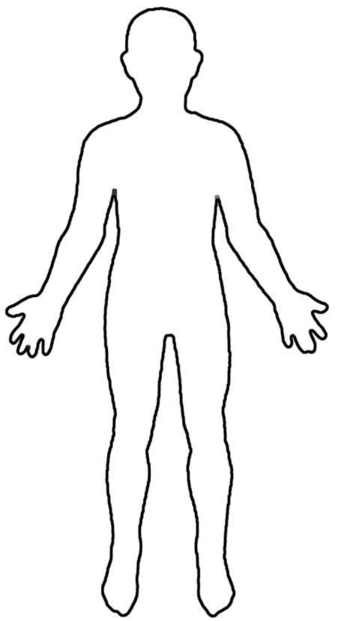
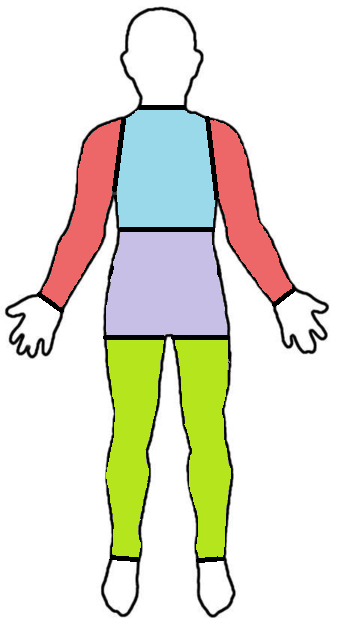
new image of person in colour, updated exercise prompts, terms and conditions footer added

Changed region(s): [[0.1163, 0.153, 0.8721, 0.9179]]

diff --git a/Health.html b/Health.html
@@ -33,9 +33,9 @@
     <div id="pageInfo">
       <h2>About This Page</h2>
       <p>
-        This interactive fitness page lets you click on different parts of the human body
-        to learn about exercises that strengthen those areas. Select arms, chest, core, or legs
-        to see tailored workout tips and benefits.
+        This interactive fitness page lets you select different parts of the human body
+        to learn about exercises that strengthen those areas. Click arms, chest, core, or legs
+        to see the specific exercises you can do for your selected muscle group!
       </p>
     </div>
   </div>
@@ -43,32 +43,47 @@
 
 <map name="image-map">
     <area alt="arms1" title="arms" href="#infoBox"
-          data-text="Arm exercises improve strength, mobility, and endurance."
-          coords="113,189,115,117,87,132,77,165,77,196,67,221,58,242,53,261,39,292,63,305,95,257,105,233" shape="poly">
+          data-text="Dips are an excellent exercise to isolate the muscles in the arms and are also scalable to your personal ability. You can start as easy as your legs infront of you on the floor to being fully off the ground with added weights."
+          coords="41,292,54,258,62,239,69,228,74,203,78,172,83,140,105,123,125,115,116,191,110,212,104,228,103,238,62,307" shape="poly">
 
-    <area alt="arms2" title="arms" href="#infoBox"
-          data-text="Training your arms enhances upper-body stability and power." 
-          coords="214,193,202,114,234,125,245,155,256,216,272,239,282,265,294,288,273,301,228,244" shape="poly">
+    <area alt="arms2" title="arms" href="#infoBox" 
+          data-text="Dips are an excellent exercise to isolate the muscles in the arms and are also scalable to your personal ability. You can start as easy as your legs infront of you on the floor to being fully off the ground with added weights." 
+          coords="208,119,218,202,225,218,227,236,234,252,274,303,292,288,275,244,260,223,256,202,245,148,238,130,226,121" shape="poly">
 
     <area alt="chest" title="chest" href="#infoBox"
-          data-text="Chest workouts help build strength and support proper posture."
-          coords="116,120,201,115,212,192,114,194" shape="poly">
+          data-text="Pushups are the most versatile chest exercise out there, with variations ranging for beginners to very advanced."
+          coords="120,229,213,227,218,198,208,115,185,108,138,106,125,117,115,197" shape="poly">
 
     <area alt="core" title="core" href="#infoBox"
-          data-text="Core strengthening improves balance, stability, and spine support."
-          coords="116,193,120,232,112,269,219,269,211,238,216,193" shape="poly">
+          data-text="The plank is a simple exercise to train your core. The best thing is you can increase the workload as you get stronger by simply holding it for longer!"
+          coords="106,336,228,336,227,316,214,246,214,228,120,227,114,264,106,307" shape="poly">
 
     <area alt="legs1" title="legs" href="#infoBox"
-          data-text="Leg exercises enhance mobility, power, and endurance."
-          coords="166,334,104,335,115,403,118,426,105,464,111,521,137,523,148,479,145,452,153,415" shape="poly">
+          data-text="Squats are a great leg exercise for all levels of ability, with a diverse range in ways to do them. You can start off by squatting onto a chair and move all the way up to squatting with added weight!"
+          coords="110,557,138,560,150,469,146,448,158,410,166,339,106,337,112,391,114,414,110,446,104,478,112,520" shape="poly">
 
     <area alt="legs2" title="legs" href="#infoBox"
-          data-text="Leg training boosts overall body strength and stability."
-          coords="227,335,230,374,222,402,225,434,232,469,224,524,198,521,186,476,192,451,182,422,181,364,177,335" shape="poly">
+          data-text="Squats are a great leg exercise for all levels of ability, with a diverse range in ways to do them. You can start off by squatting onto a chair and move all the way up to squatting with added weight!"
+          coords="201,561,222,558,231,475,224,424,222,408,230,383,228,337,174,339,184,426,191,451,187,466,199,526,194,544" shape="poly">
 </map>
 
 
 <div id="infoBox"></div>
+
+<footer class="site-footer">
+  <div class="footer-wrapper">
+    <h3>Terms and Conditions</h3>
+    <p>
+      By using this website, you agree to the following terms and conditions.
+      All content is provided for informational purposes only and should not
+      replace professional fitness or medical advice.
+    </p>
+    <p>
+      © 2025 Phi.tness. All rights not reserved.
+    </p>
+  </div>
+</footer>
+
 
 <script src="js/Health.js"></script>
 

diff --git a/css/Health.css b/css/Health.css
@@ -56,3 +56,20 @@ body {
   text-align: left;
   color: #444;
 }
+.site-footer {
+  background-color: #f0f0f0;
+  padding: 30px 20px;
+  margin-top: 40px;
+}
+
+.site-footer h3 {
+  margin-top: 0;
+  font-size: 20px;
+  color: #4CAF50;
+}
+
+.site-footer p {
+  font-size: 14px;
+  line-height: 1.6;
+  margin: 8px 0;
+}
